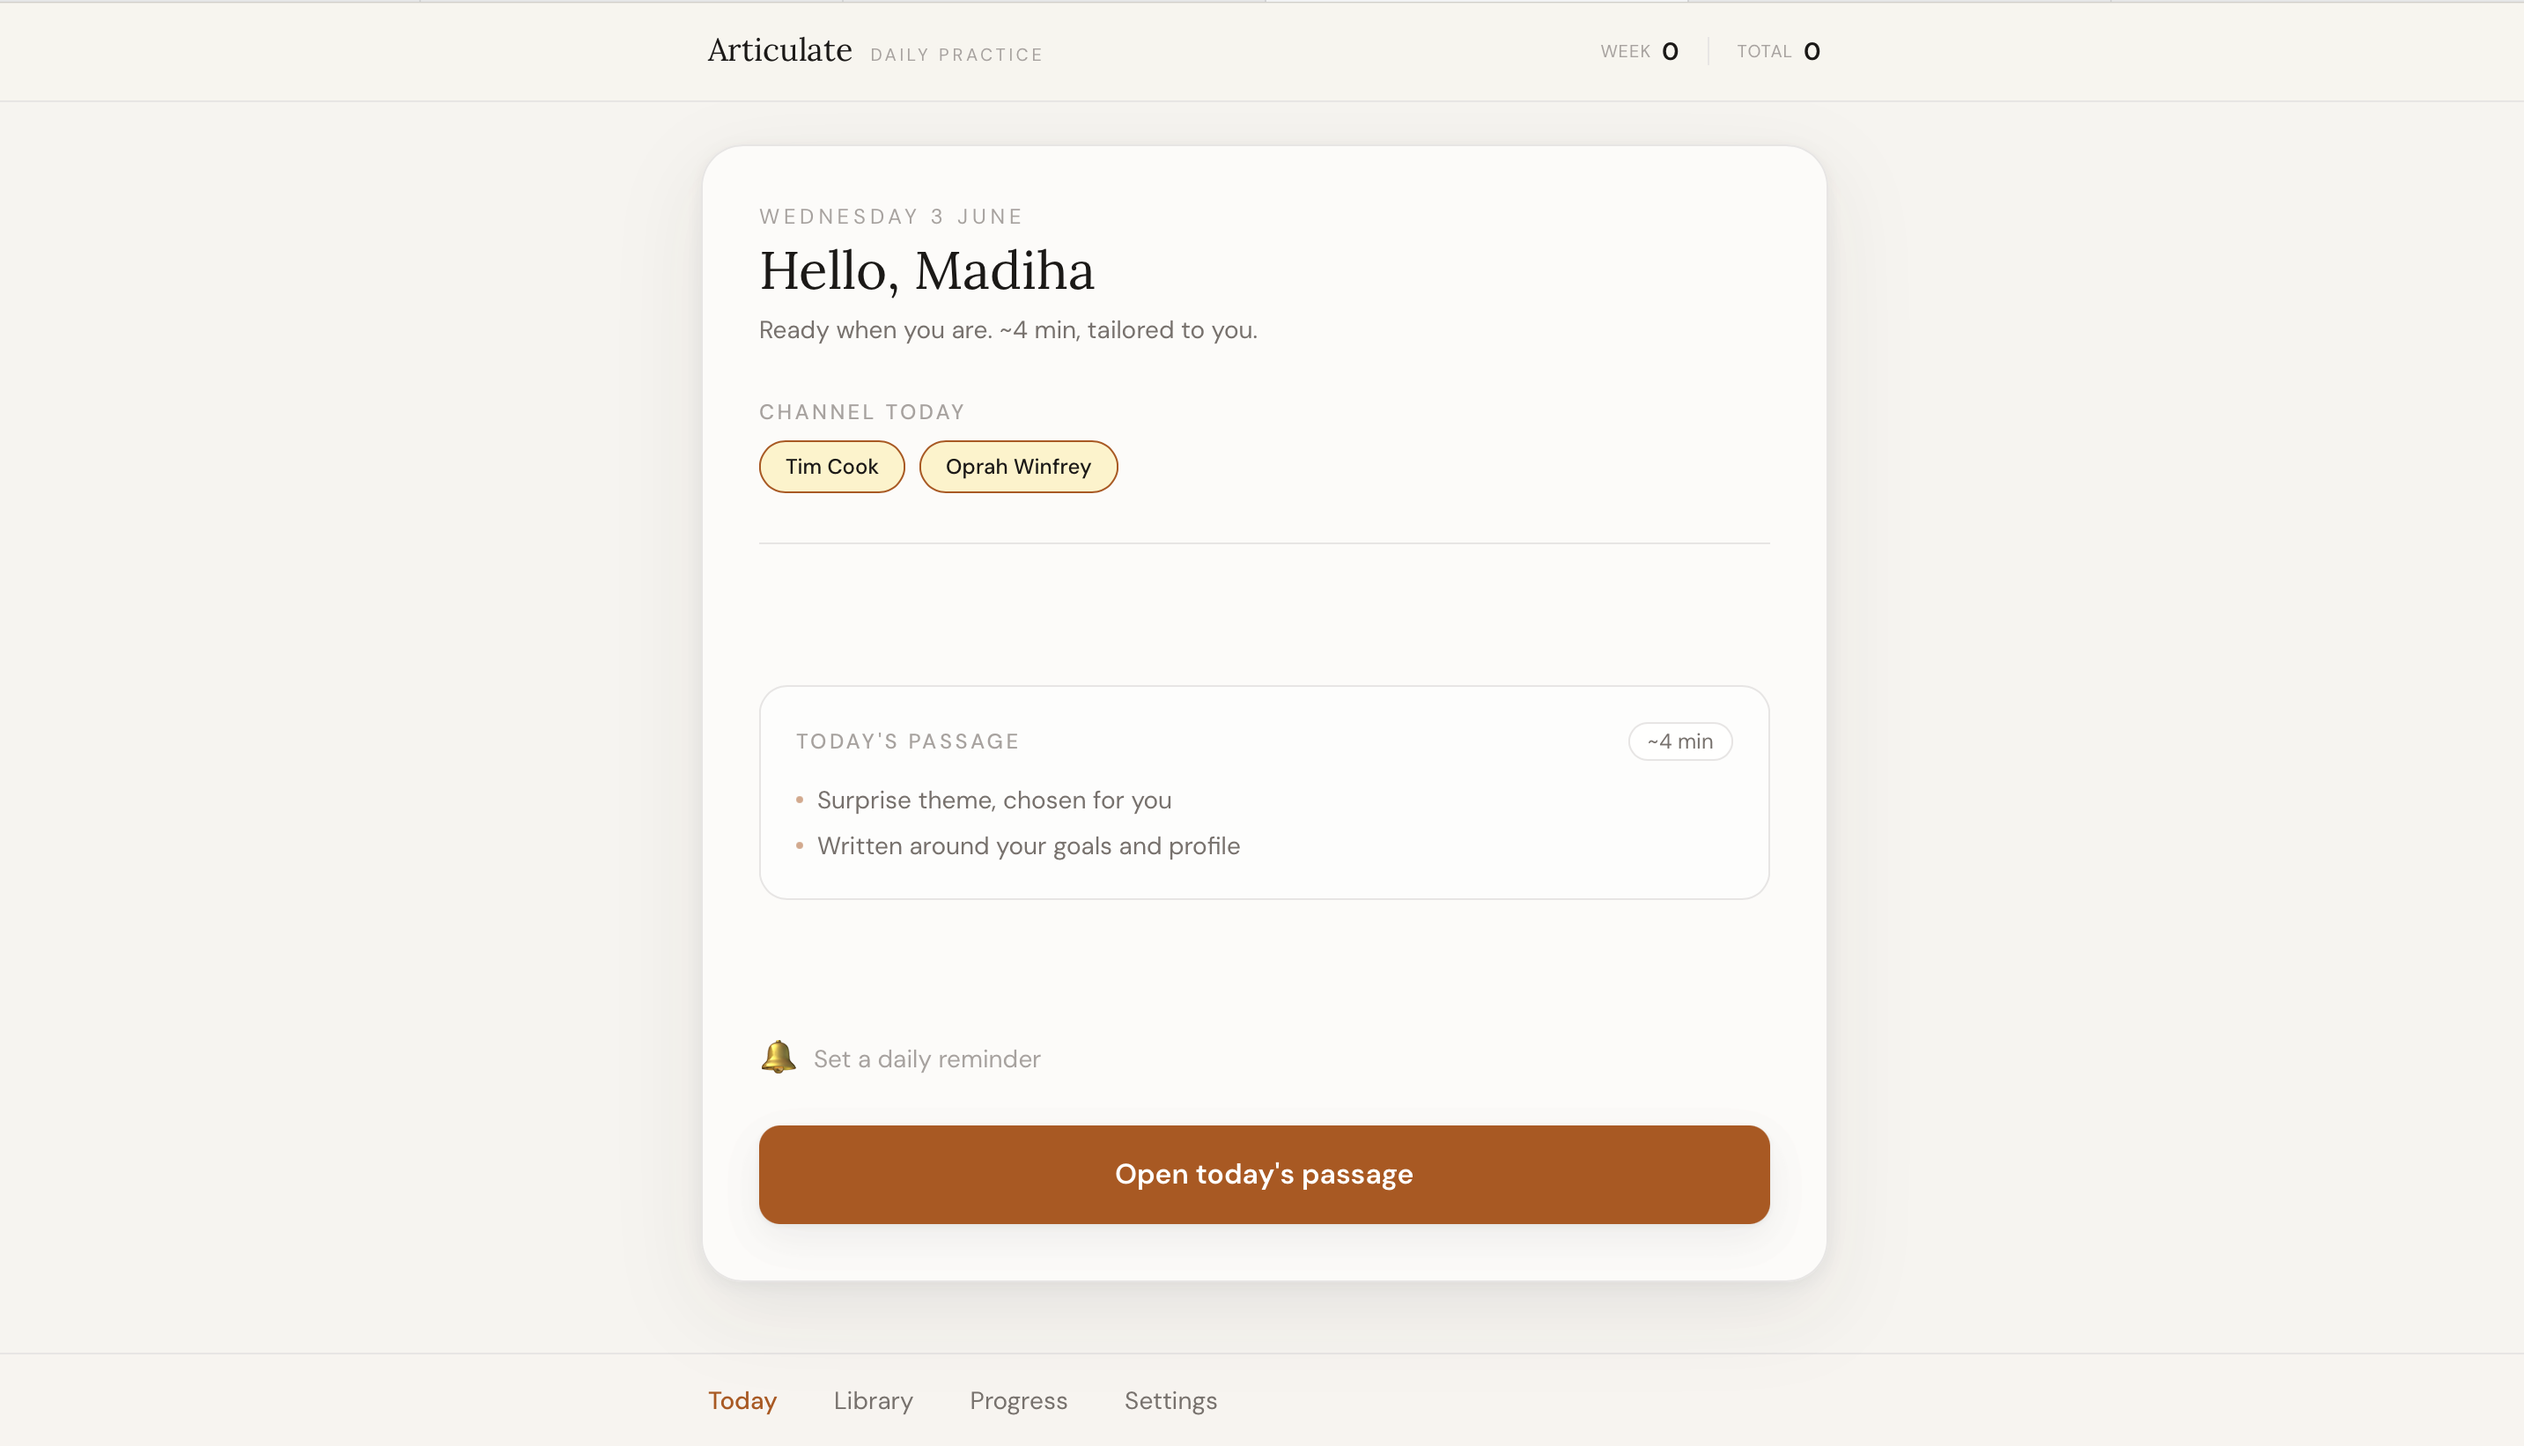
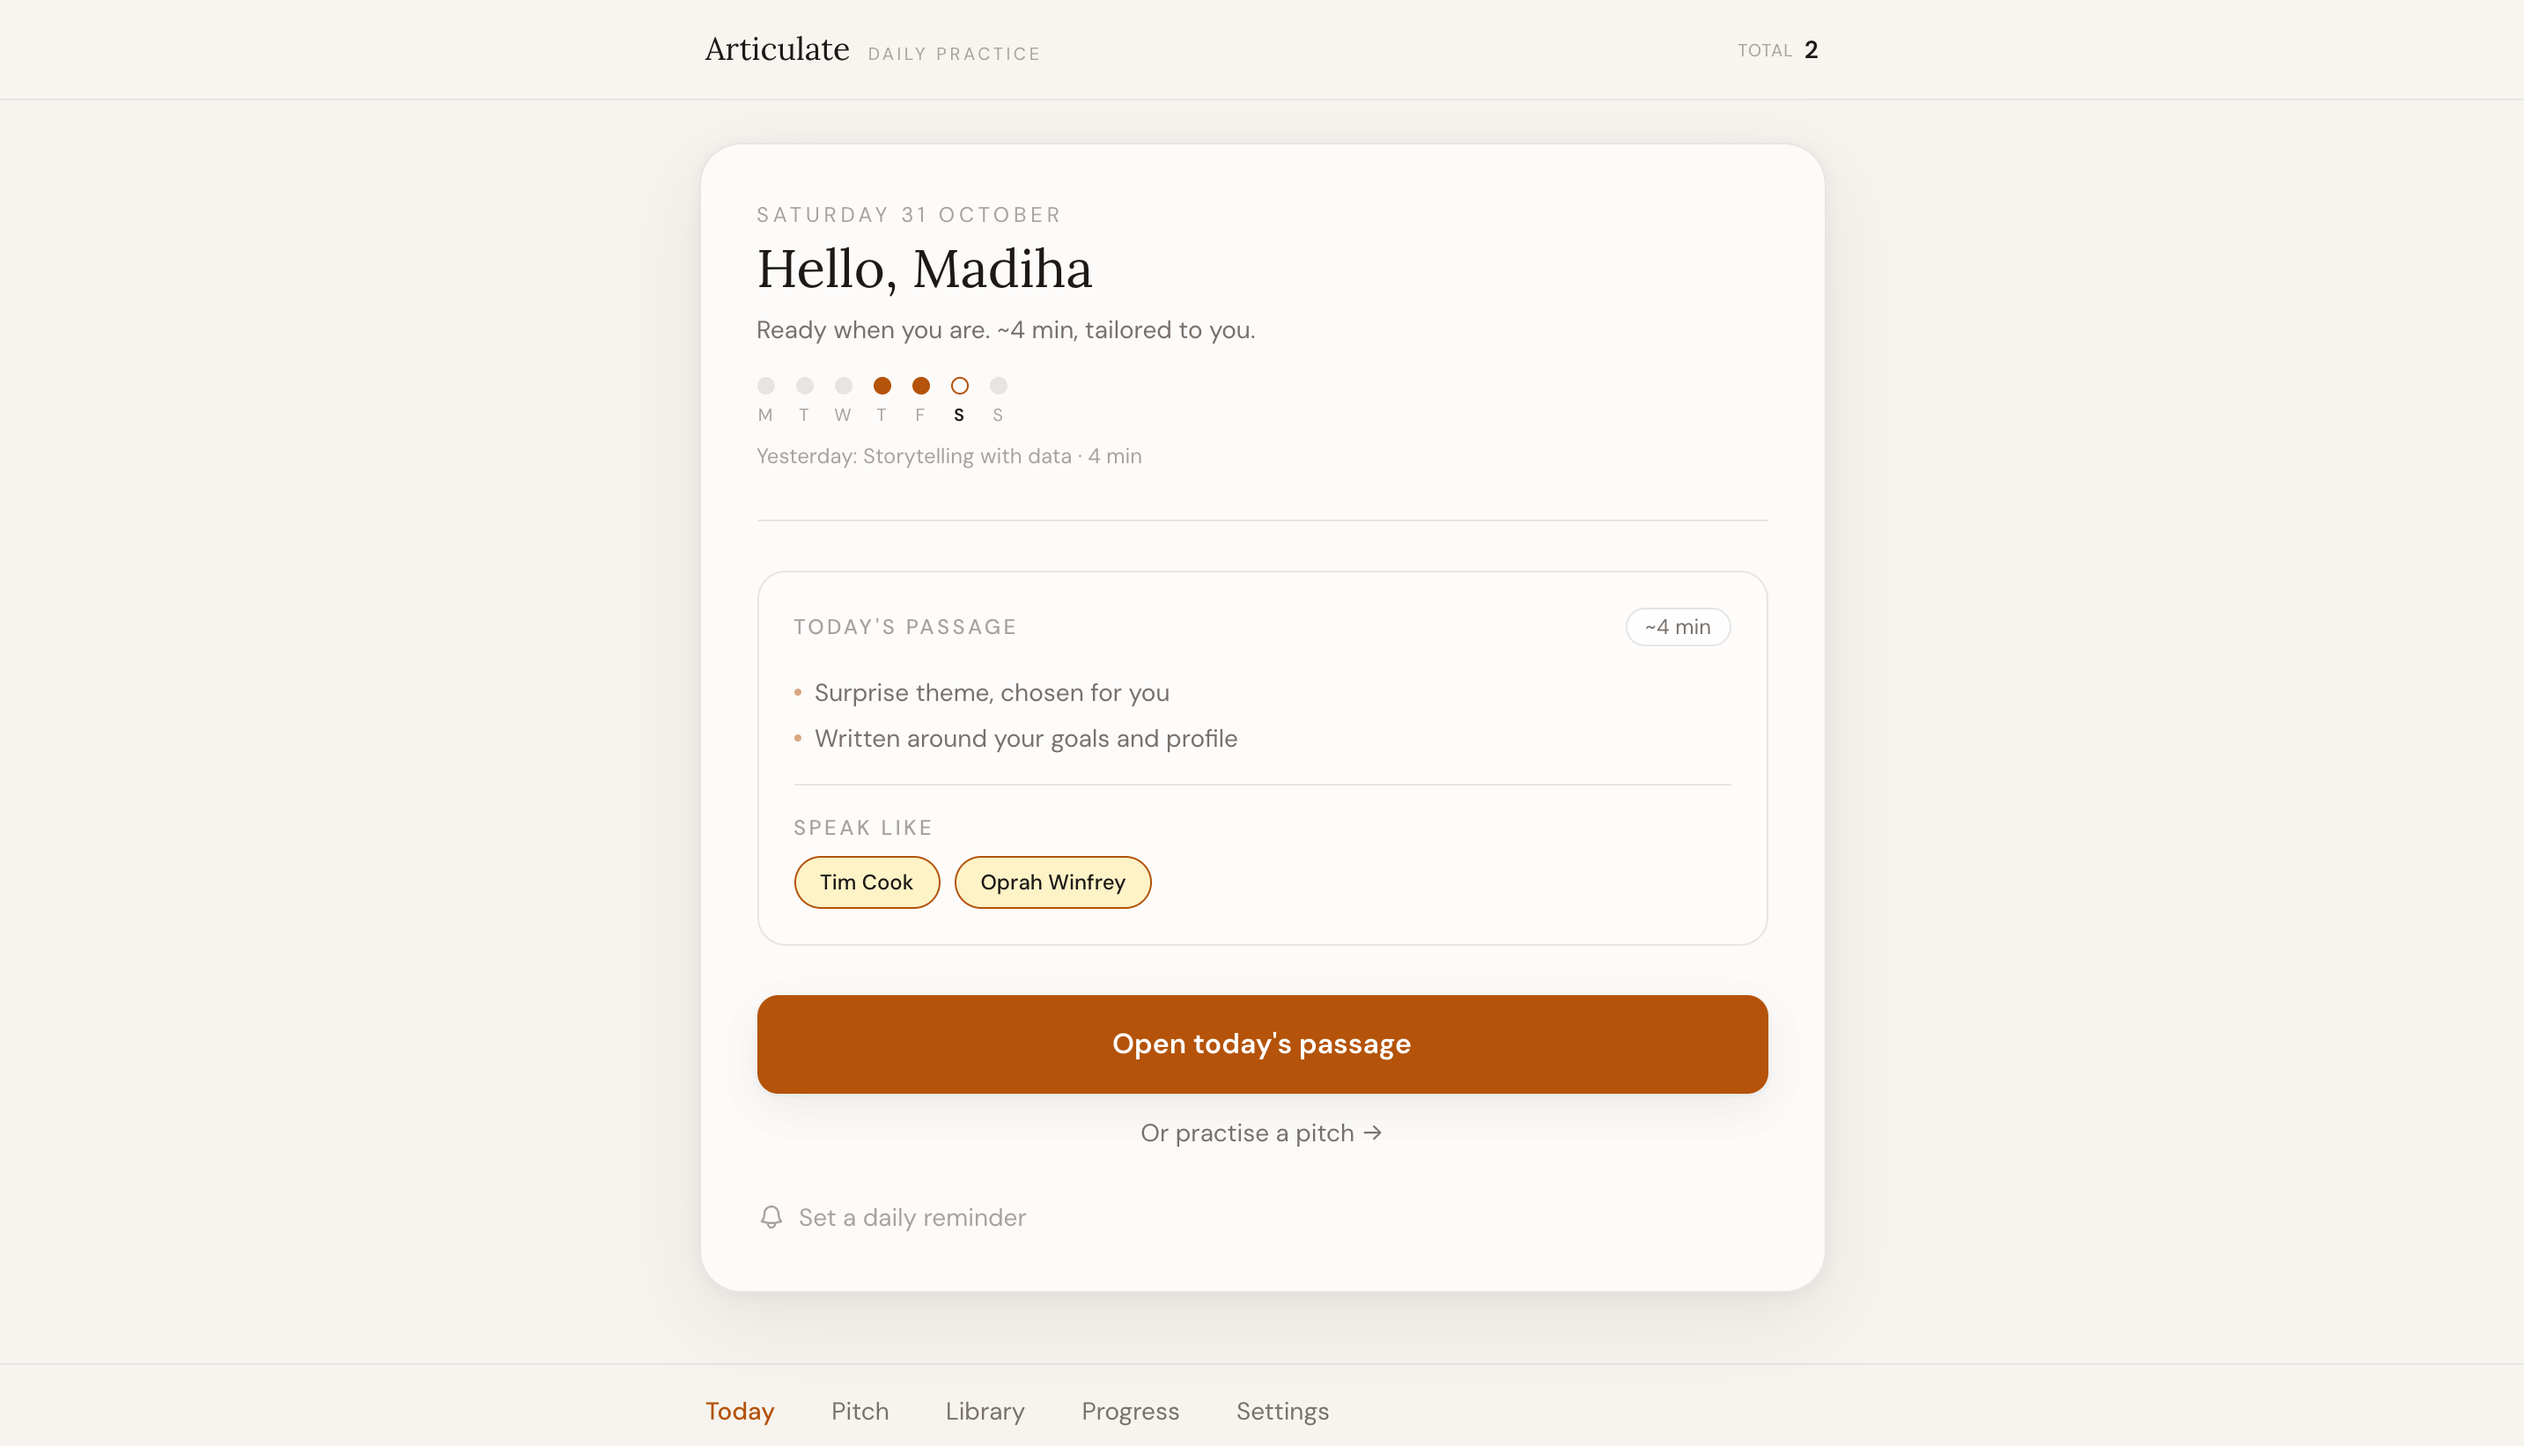
Update README screenshots for the new Home page

diff --git a/README.md b/README.md
@@ -52,6 +52,10 @@ Most of us know what we want to say. The gap is how we say it. The confidence, t
 
 ![Home](screenshots/04-home.png)
 
+### Daily home — after today's reading
+
+![Home after reading](screenshots/04b-home-done.png)
+
 ### Passage with recording
 
 ![Passage](screenshots/05-passage.png)
